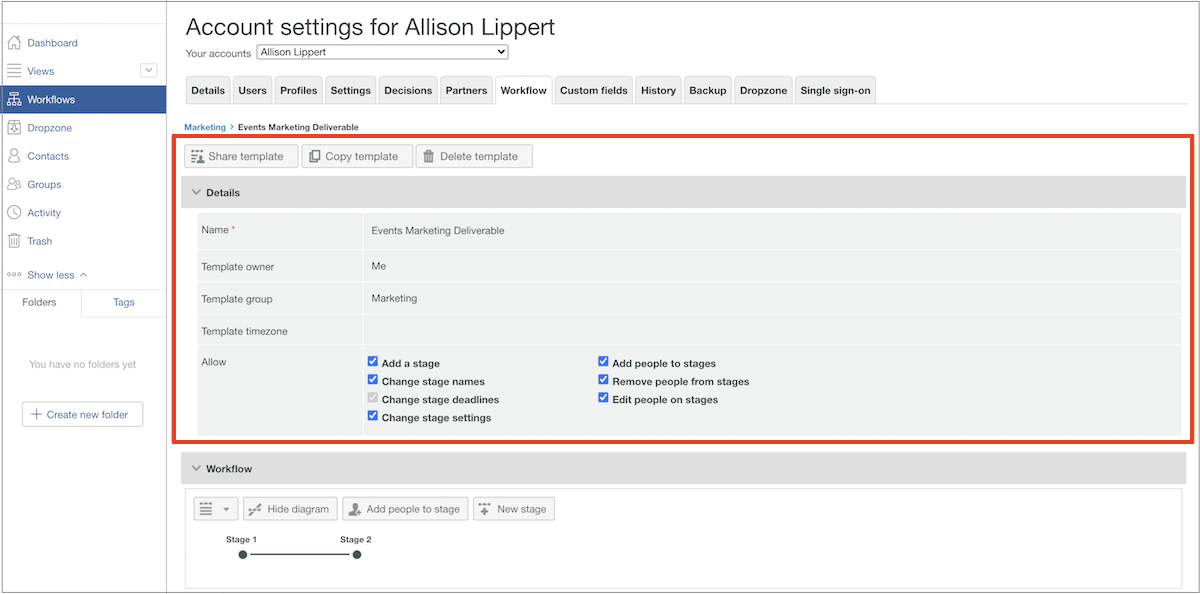
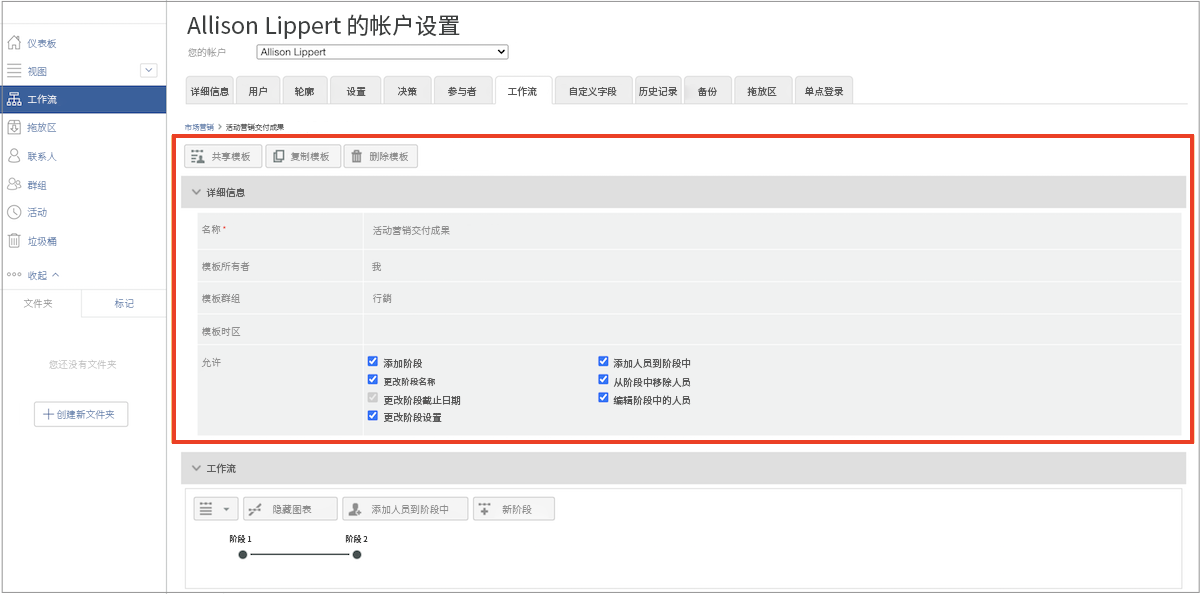
Updated by task 'AUTO_HANDOFF_1723202856469'  Changes for core/source commit https://git.corp.adobe.com/AdobeDocs/workfront-learn.en/commit/f2256fcc19d64247c79126c39acc202b4aff6f96

diff --git a/help/workfront-proof/administration-and-setup/edit-an-automated-workflow-template.md b/help/workfront-proof/administration-and-setup/edit-an-automated-workflow-template.md
@@ -13,9 +13,9 @@ jira: KT-8831
 exl-id: 03841b1f-741d-4427-ae84-ddb9f890fc95
 doc-type: video
 source-git-commit: 55edb8b797583f93f405c9c6b69422b818c90cdc
-workflow-type: tm+mt
+workflow-type: ht
 source-wordcount: '535'
-ht-degree: 60%
+ht-degree: 100%
 
 ---
 
@@ -23,18 +23,18 @@ ht-degree: 60%
 
 随着验证审核和审批流程的完善或组织发生变化，应更新自动化工作流模板，以反映使用 Workfront 的团队当前的操作情况。
 
-使模板保持最新可确保审核和批准流程的一致性，并且节省上传验证的时间，因为它们不必不断调整工作流。
+保持模板处于最新状态可确保审核和批准流程的一致性，同时还可节省上传证明的时间，因为他们不必不断调整工作流。
 
 1. 从 [!DNL Workfront] 中的 **[!UICONTROL Main Menu]** 中选择 **[!UICONTROL Proofing]**。
 1. 从那里选择左侧面板菜单中的 **[!UICONTROL Workflows]**。
 1. 单击模板名称最右侧的三点菜单，然后选择 **[!UICONTROL View template details]**。
 
-用于共享、复制和删除模板的选项位于每个模板的模板详细信息窗口的顶部。删除模板不会影响已应用该模板的正在进行的验证，但这意味着该模板将无法再使用。
+用于共享、复制和删除模板的选项位于每个模板的模板详细信息窗口的顶部。删除模板不会影响应用该模板的正在进行的校对，但这意味着该模板无法再使用。
 
 ![模板详细信息窗口](assets/proof-system-setup-edit-templates-details-area.png)
 
 
-单击单词“[!UICONTROL Details]”左侧的箭头可展开或折叠该部分。
+单击“[!UICONTROL Details]”一词左侧的箭头可展开或折叠该部分。
 
 ## 更改阶段和收件人
 
@@ -42,18 +42,18 @@ ht-degree: 60%
 
 自动化工作流的每个阶段都有自己的部分，以便能够独立修改截止日期、隐私、验证收件人和其他信息。
 
-此视频演示了您可以在[!UICONTROL Workflow]区域中进行的一些更改。 请参阅此视频下的项目符号列表，其中介绍了这些设置。
+本视频演示了您可以在 [!UICONTROL Workflow] 区域中进行的一些更改。请参阅此视频下的项目符号列表，其中列出了这些设置。
 
 >[!VIDEO](https://video.tv.adobe.com/v/335131/?quality=12&learn=on)
 
 作为回顾，以下是您可以在 [!UICONTROL Workflow] 部分中对验证模板进行的更改：
 
-* 单击阶段名称字段或截止日期字段以更新该信息。
-* 单击截止日期左侧的箭头可锁定阶段、确定何时激活阶段或仅需要一个决策。
+* 单击阶段名称字段或截止日期字段来更新该信息。
+* 单击截止日期左侧的箭头可以锁定该阶段、确定何时激活该阶段或仅要求做出一个决定。
 * 在收件人列表中，单击 [!UICONTROL Role] 或 [!UICONTROL Email alerts] 字段以选择另一个选项。
-* 转到收件人姓名最右侧的3个圆点菜单，以将其从列表中删除，使其成为该工作流阶段的主要决策者，或编辑验证角色和电子邮件警报信息。
-* 要向列表添加收件人，您有两个选项。
-   1. 在每个阶段部分的右上角，转到[!UICONTROL More]菜单并选择[!UICONTROL Add people to stage]。 打开[!UICONTROL Add people to stage]窗口后，单击将其添加到哪个阶段。 然后在收件人列表中输入他们的姓名或电子邮件地址，并分配验证角色和电子邮件提醒。完成后，单击[!UICONTROL Add people]按钮。
+* 转到收件人姓名最右侧的三点菜单，将其从列表中删除，将他们设为该工作流阶段的主要决策者，或编辑校样角色和电子邮件警报信息。
+* 您有两种选择可将收件人添加到列表中。
+   1. 在每个阶段部分的右上角，转到 [!UICONTROL More] 菜单并选择 [!UICONTROL Add people to stage]。打开 [!UICONTROL Add people to stage] 窗口后，单击要将其添加到的那个阶段。然后在收件人列表中输入他们的姓名或电子邮件地址，并分配验证角色和电子邮件提醒。完成后单击 [!UICONTROL Add people] 按钮。
    1. 在 [!UICONTROL Workflow] 区域的顶部，选择 [!UICONTROL Add people to stage]。
 
 ## 模板共享
